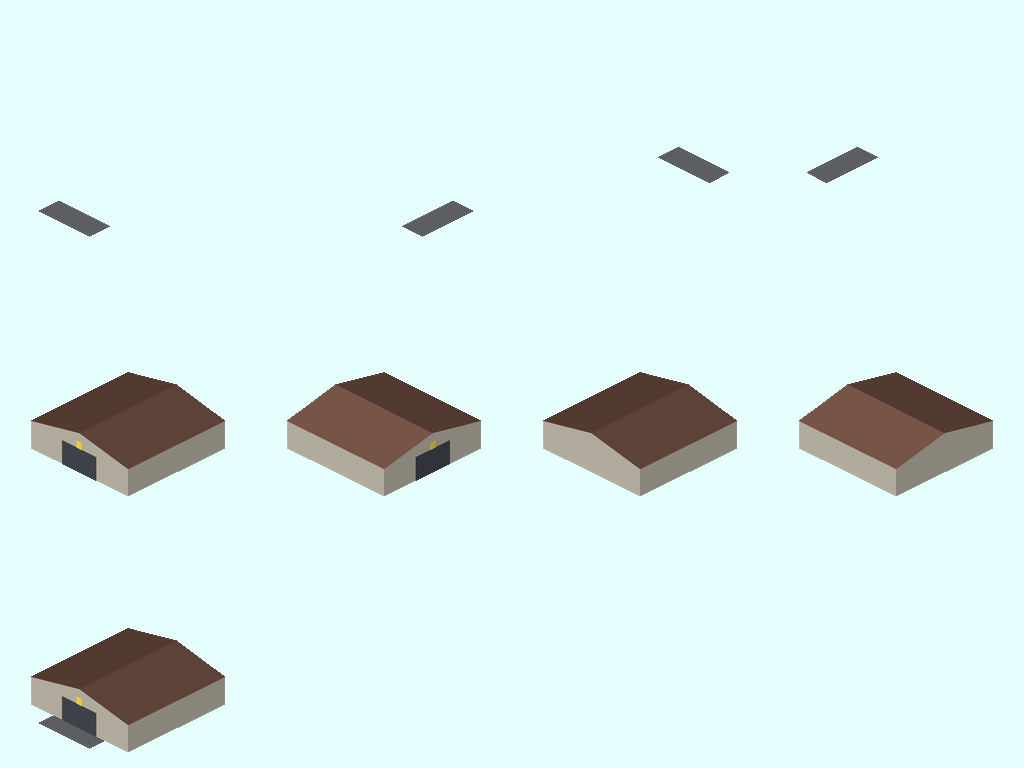
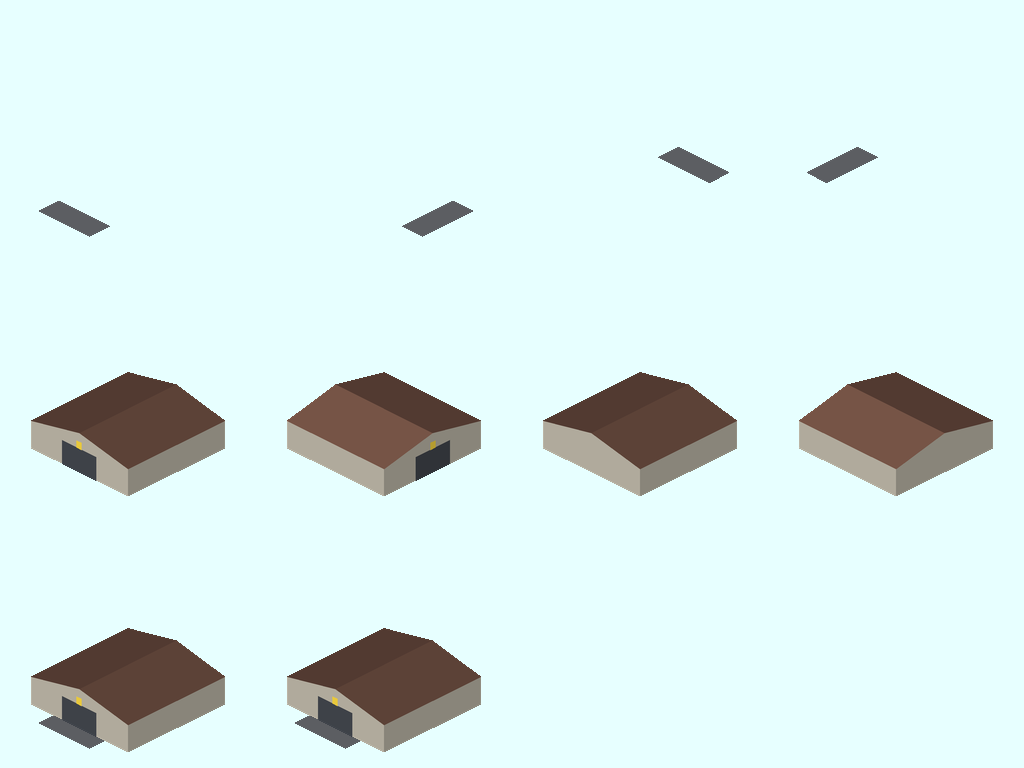
車庫のレビューの指摘を直す: カーソルの絵・向きの検査・roadmap と置き換え手順 (#58)

Changed region(s): [[0.2812, 0.8125, 0.4688, 0.9688]]

diff --git a/objects/depot/road_depot/draw_depot.py b/objects/depot/road_depot/draw_depot.py
@@ -3,7 +3,7 @@
 - 縮尺・タイルの座標は objects/city/town_buildings/draw_buildings.py と同じ（1 タイル = 26.4m、高さ 1m = 5.94px）。
 - 車庫は 1x1 タイル、向きは 4 通り（本体の決まり。`dims` の 3 つめが 4）。向きごとに、戸（車の出入り口）の面を変える。
   戸の面は LAYOUT_SIDE の順（0〜3）。南西・南東の面は戸が見え、北東・北西の面は隠れるので、そちらは地面の舗装（後ろの絵）だけで入口を示す。
-- シートは 4 列（向き）× 3 行（0 行 = 後ろ（舗装）、1 行 = 前（建物）、2 行 = 道具の絵）。セルの名前は <名前>.<行>.<列>。
+- シートは 4 列（向き）× 3 行（0 行 = 後ろ（舗装）、1 行 = 前（建物）、2 行 = 道具の絵（2 行 0 列）と置くときのカーソル（2 行 1 列））。セルの名前は <名前>.<行>.<列>。
 
 使い方（Pillow が要る。書き出した PNG と表は git に入れる）:
     python -X utf8 objects/depot/road_depot/draw_depot.py
@@ -96,6 +96,7 @@ def sheet():
         part = out.crop((0, row * CELL, CELL, row * CELL + CELL))
         icon.paste(part, (0, 0), _mask(part))
     out.paste(icon, (0, CELL * 2))
+    out.paste(icon, (CELL, CELL * 2))  # 置くときのカーソル（2 行 1 列）。道具の絵と同じ絵
     return out
 
 
@@ -112,6 +113,7 @@ def table():
         "noinfo: 1",
         f"dims: 1,1,{LAYOUTS}",
         "icon: \"> road_depot.2.0\"",
+        "cursor: road_depot.2.1",
         "backimage:        # backimage[向き][y][x][高さ][コマ]。向きの順は draw_depot.py の LAYOUT_SIDE",
     ]
     for i in range(LAYOUTS):

diff --git a/tools/test_depot.py b/tools/test_depot.py
@@ -58,6 +58,12 @@ class DepotTest(unittest.TestCase):
                         self.assertTrue(has_art(row, i), f"{p}: {row} 行 {i} 列が空")
                 self.assertEqual(str(d["icon"]).lstrip("> "), f"{key}.2.0")
                 self.assertTrue(has_art(2, 0), "道具の絵が空")
+                self.assertEqual(str(d["cursor"]), f"{key}.2.1")
+                self.assertTrue(has_art(2, 1), "カーソルの絵が空")
+                # 向きごとに戸の面が違う（4 列が互いに違う絵）。順の取り違えや同じ絵の使い回しを止める
+                for row in (0, 1):
+                    cells = [im.crop((c * 256, row * 256, c * 256 + 256, row * 256 + 256)).tobytes() for c in range(LAYOUTS)]
+                    self.assertEqual(len(set(cells)), LAYOUTS, f"{row} 行の 4 つの向きが互いに違わない")
 
     def test_listed_and_translated(self):
         with open(os.path.join(ROOT, "docs", "stations.md"), encoding="utf-8") as f:

diff --git a/tools/vehicle_check/run.py b/tools/vehicle_check/run.py
@@ -92,7 +92,7 @@ def main():
     ap.add_argument("--port", type=int, required=True)
     ap.add_argument("--vehicle", default="pak256_sample_bus")
     ap.add_argument("--depot", default="", help="道路の車庫の名前（空なら最初に見つかった物）")
-    ap.add_argument("--extra-pak", action="append", default=[], help="借りる pak（道路の車庫・停留所。試験のときだけ）")
+    ap.add_argument("--extra-pak", action="append", default=[], help="借りる pak（別の車庫・停留所を試すときだけ）")
     ap.add_argument("--way", default="ami_road_local", help="輪に敷く道路の名前（AMI の 256 版の道路）")
     ap.add_argument("--origin", default="40,40", help="輪の北西の角（温帯の x<256 に置く）")
     ap.add_argument("--rounds", type=int, default=90, help="撮る回数の上限（4 秒ごと）")

diff --git a/docs/stations.md b/docs/stations.md
@@ -48,5 +48,6 @@
 
 - 1x1 タイル（`dims=1,1,4`。向き 4 通り）、登場年 1900（仮）、`noinfo` 1。大きさは concept の C（1 タイル = 26.4m）に合わせ、足跡はタイルの余白 0.12 を残した約 20m 四方、壁 4.6m・棟 6.6m。
 - 向きの絵は、戸（車の出入り口）が道路の側を向く。向き 0 = 道路が南西、1 = 南東（どちらも戸が見える面）。2 = 北東、3 = 北西は戸が隠れる面で、地面の舗装（後ろの絵）だけが入口を示す。0・1 は道路の袋小路の端に置いて、戸が道路を向くことを確かめた。2・3 は、4 方向の袋小路に置いたとき建物が道路を向いて置かれることまでは見たが、隠れた面の戸は画面で確かめていない。
-- 置き換えるときは、`objects/depot/` を消す・`tools/test_depot.py` を消す・`text/` の 2 行ずつ（ja・en）を消す・`CREDITS.md` の行を消す・この節を消す・`layout.md` の物の種類の表の `objects/depot/` の行、道具の表の `test_depot.py` の行、「例外は…」の文の車庫の部分を消す。保存データは物の名前で引くので、置き換えると置いてあった車庫は消える（本体のコードの読みで、置いて確かめてはいない）。置き換えは α0.2 より前に行うのがよい。
+- 置き換えるときは、`objects/depot/` を消す・`tools/test_depot.py` を消す・`text/` の 2 行ずつ（ja・en）を消す・`CREDITS.md` の行を消す・この節を消す・`layout.md` の物の種類の表の `objects/depot/` の行、道具の表の `test_depot.py` の行、「例外は…」の文の車庫の部分を消し、`roadmap.md`（例外の一覧と表の車庫の注記）・`vehicles.md` の「車庫は pak256 の仮の物」と試験の節・`tools/vehicle_check/run.py` の説明を AMI の車庫に合わせて直す。車庫に入っていた編成が、定義の消えた車庫の保存データでどうなるかは、本体のコードを読んでおらず未確認（置き換えは配布の前に行い、遊ぶ人の保存データには出さない）。保存データは物の名前で引くので、置き換えると置いてあった車庫は消える（本体のコードの読みで、置いて確かめてはいない）。置き換えは α0.2 より前に行うのがよい。
+- 置くときのカーソル（`cursor`）は、道具の絵と同じ絵を 2 行 1 列に置いた。ツールバーから置く操作とカーソルの出方は、ゲームで確かめていない（スクリプトの `build_depot` で置いた）。
 - 置いた直後は、本体が建設中の絵（黄黒の縞。`objects/gui/construction`）を出す。ゲームを進める（`debug.set_game_speed(64)` で約 12 秒）と、車庫の絵になる。確認のときに待つ。

diff --git a/docs/records/2026-11-25_road-depot.md b/docs/records/2026-11-25_road-depot.md
@@ -13,9 +13,9 @@
 
 ## 結果
 
-- 車庫は置けた（`build_depot` が成功）。4 つの袋小路に置いた車庫は、どれも道路の側に建物の入口（戸のある面か、舗装）を向けて出た。南西・南東の側の袋小路では、戸が道路に向いて見えた。
+- 車庫は置けた（`build_depot` が成功）。4 つの袋小路に置いた車庫は、どれも道路の側に建物の入口（戸のある面か、舗装）を向けて出た。戸が見える向き（戸が南東・南西の面）の車庫は、座標 47,50（道が南東へ）と 50,47（道が南西へ）で、戸が道路に向いて見えた。
 - 車庫でバス（1 両・2 両連結）と石炭のトラック（同）を買えた。編成が車庫から出て、輪の道（直線 4 方向・斜め・曲がり）とバス停の上を走った（バス・トラックとも 8 方向のうち 7 方向の撮影が取れた）。
-- 確かめていないこと: 北東・北西の側の戸（隠れる面）の見え方、右側通行の地図、本家 125.0.1。
+- 確かめていないこと: ツールバーから車庫を置く操作と置くときのカーソルの出方（スクリプトの `build_depot` だけ）、 北東・北西の側の戸（隠れる面）の見え方、右側通行の地図、本家 125.0.1。
 
 画像（1930 年。`gui.set_zoom(3)`）:
 
